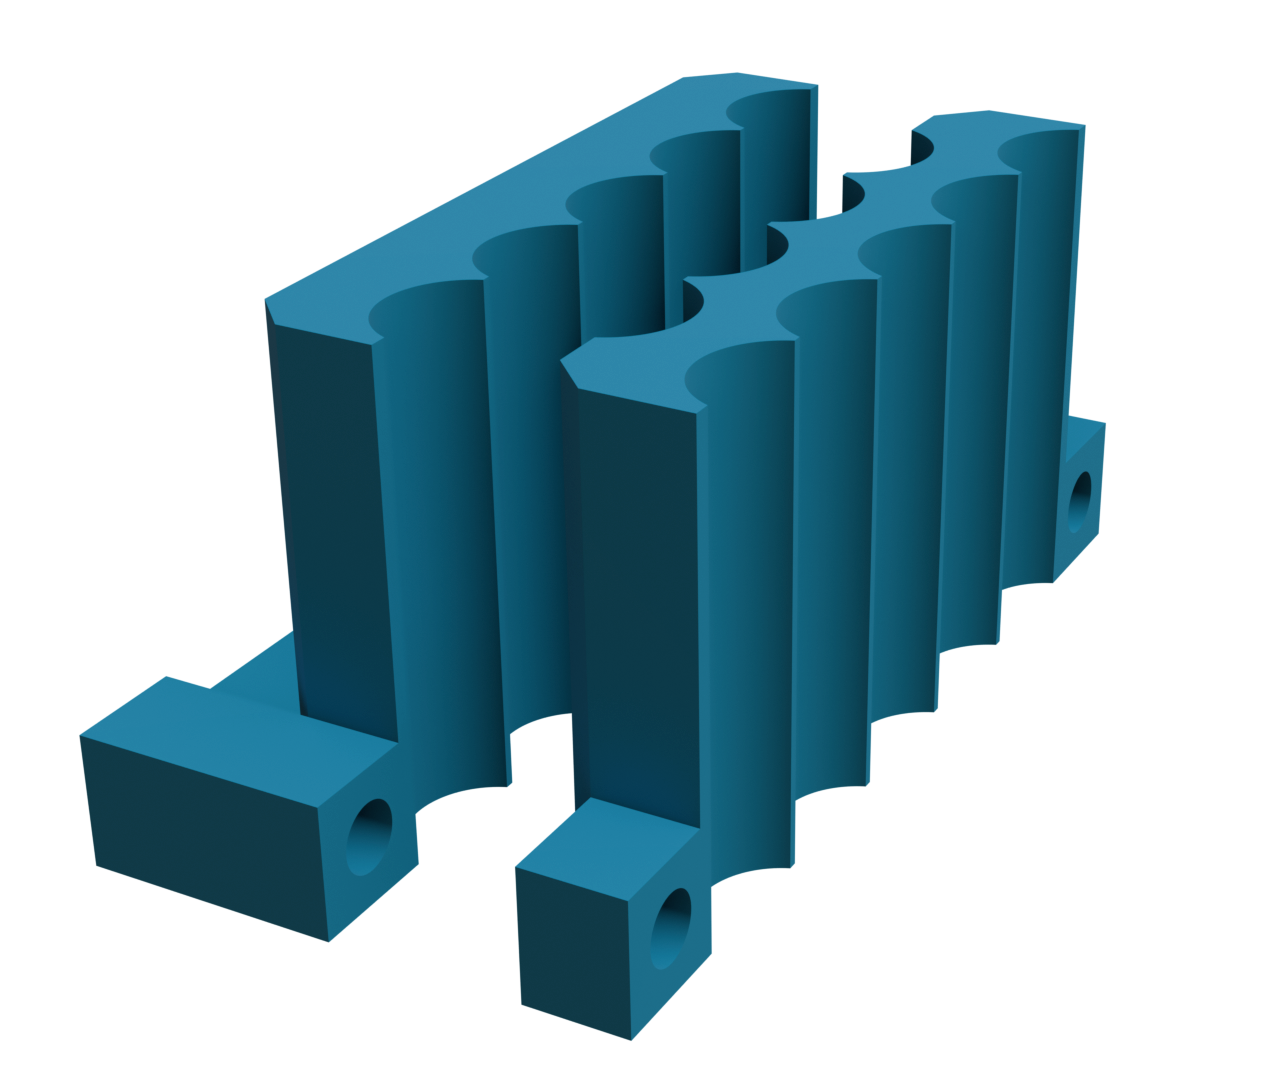
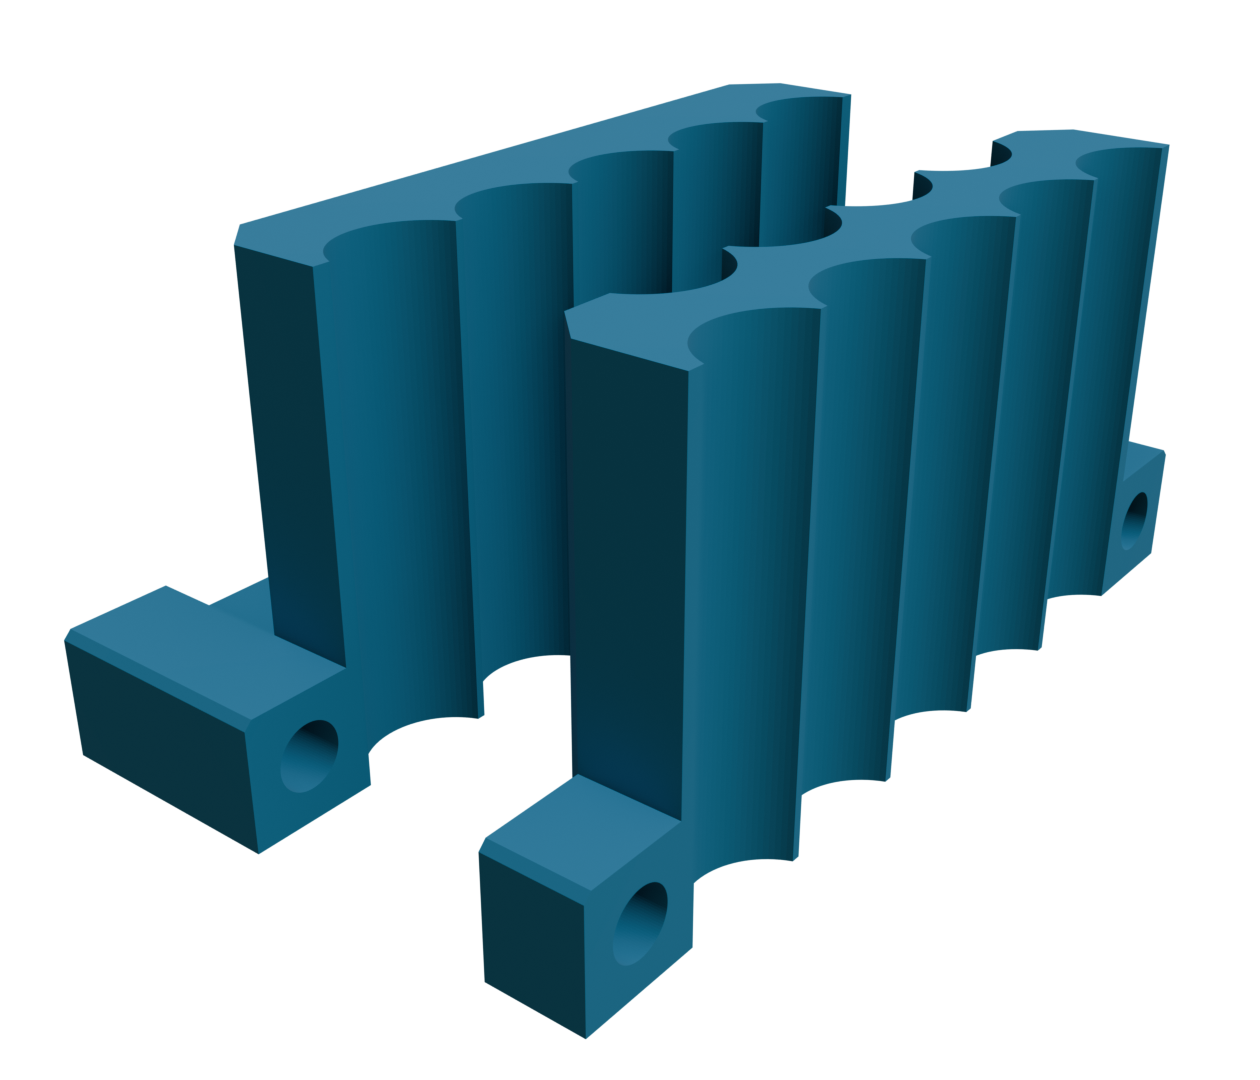
Small bevel added
- small bevel for side edges
- added script to generate sample files
- preview updated

Changed region(s): [[0.031, 0.0611, 0.9286, 0.9778]]

diff --git a/README.md b/README.md
@@ -69,8 +69,9 @@ four groups of settings that can be adjusted.
   This sets the mimimum wall thickness in multiples of extrustion width
   for thin walls, e.g. between the magnet and battery cell and the "tip"
   between the cell cutouts.
-- **Bevel large** \
-  Both objects are beveled at certain edges. This is the bevel size in
-  millimeters.
-
-
+- **Bevel Large** \
+  Both objects are beveled at certain edges. This is the larger bevel 
+  size in millimeters.
+- **Bevel Small** \
+  Both objects are beveled at certain edges. This is the small bevel 
+  size in millimeters.
